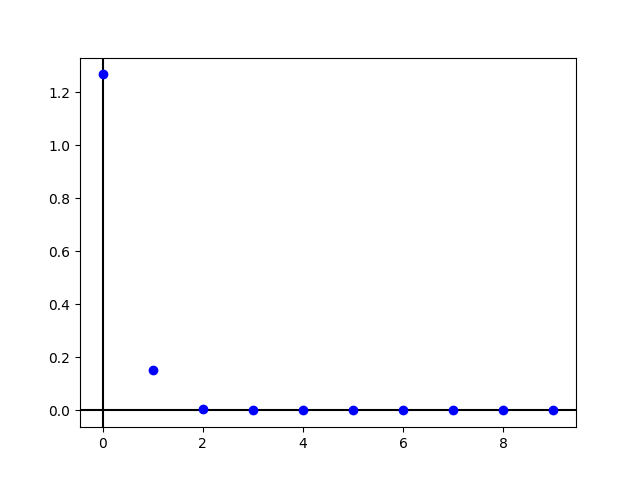
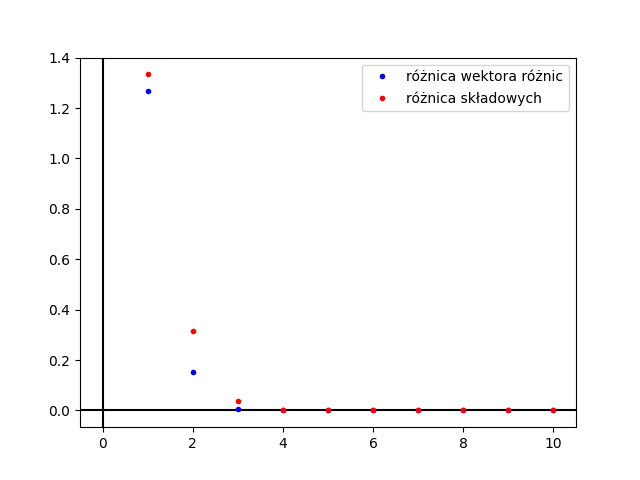
szukanie po wektorze różnic zrobione. Ulepszone wykresy

diff --git a/kod/main.py b/kod/main.py
@@ -4,14 +4,14 @@ import gauss_seidl as gs
 import charts
 
 def search_by_iterations(i, matrix, equals, xs):
-    points = [] # tablica na punkty [iteracja, błąd] do wykresu
+    points = [] # tablica na punkty [iteracja, zmiana wektora, zmiana składowych] do wykresu
     
-    X = xs.copy() # zabezpieczenie przed nadpisywaniem pamięci
+    X = xs.copy() # zabezpieczenie przed nadpisywaniem xs
     prev_x = []   # tablica na poprzedni wynik
     for i in range(i):
         prev_x = X.copy()
         X = gs.search(matrix, equals, X)
-        points.append([i, gs.change_of_diff_vec(matrix, equals, X)])
+        points.append([i, gs.change_of_diff_vec(matrix, equals, X), gs.change_of_components(prev_x, X)])
     # zwraca:
     # liczbę iteracji
     # zmianę składowych
@@ -24,6 +24,32 @@ def search_by_iterations(i, matrix, equals, xs):
         gs.change_of_diff_vec(matrix, equals, X),\
         points,\
         X
+
+
+def search_by_diff_vec(eps, matrix, equals, xs):
+    points = [] # tablica na punkty [iteracja, zmiana wektora, zmiana składowych] do wykresu
+    X = xs.copy()   # zabezpieczenie przed nadpisywaniem xs
+    prev_x = []     # tablica na poprzedni wynik
+    i = 0
+    while not gs.change_of_diff_vec(matrix, equals, X, eps):
+        i += 1
+        prev_x = X.copy()
+        X = gs.search(matrix, equals, X)
+        points.append([i, gs.change_of_diff_vec(matrix, equals, X), gs.change_of_components(prev_x, X)])
+
+    # zwraca:
+    # liczbę iteracji
+    # zmianę składowych
+    # zmianę wektora zmian
+    # punkty na wykres
+    # wynik
+    return \
+        i,\
+        gs.change_of_components(prev_x, X),\
+        gs.change_of_diff_vec(matrix, equals, X),\
+        points,\
+        X
+
 
 
 # załaduj macierz
@@ -68,8 +94,8 @@ if (opt == 2 or opt == 3):
     eps = float(input("podaj epsilon: "))
     # if (opt == 2):
         # i, err_comp, err_diff_vec, points, result = # funkcja która to wszystko zwróci
-    # if (opt == 3):
-        # i, err_comp, err_diff_vec, points, result = # funkcja która to wszystko zwróci
+    if (opt == 3):
+        i, err_comp, err_diff_vec, points, result = search_by_diff_vec(eps, matrix, equals, xs)
 print()
 print("##################################")
 print("Wybrana metoda szukania: ", end="")
@@ -112,12 +138,3 @@ będzie śledzenie zmian składowych
 #     i += 1
 #     prev_xs = xs.copy()
 #     xs = search(matrix, equals, xs)
-
-
-
-''' przykład jak zrobić funkcję szukającą iteracyjnie '''
-# for i in range(100):
-#     prev_xs = xs
-#     xs = search(matrix, equals, xs)
-    
-

diff --git a/kod/charts.py b/kod/charts.py
@@ -10,7 +10,9 @@ def create_chart(points, filename):
     plt.axvline(0, color='black')
 
     # narysuj punkty
-    plt.plot(points[0], points[1], "bo")
+    plt.plot(points[0], points[1], "b.", label="różnica wektora różnic")
+    plt.plot(points[0], points[2], "r.", label="różnica składowych")
+    plt.legend(loc="upper right")
 
     # pokaż
     # plt.show()
